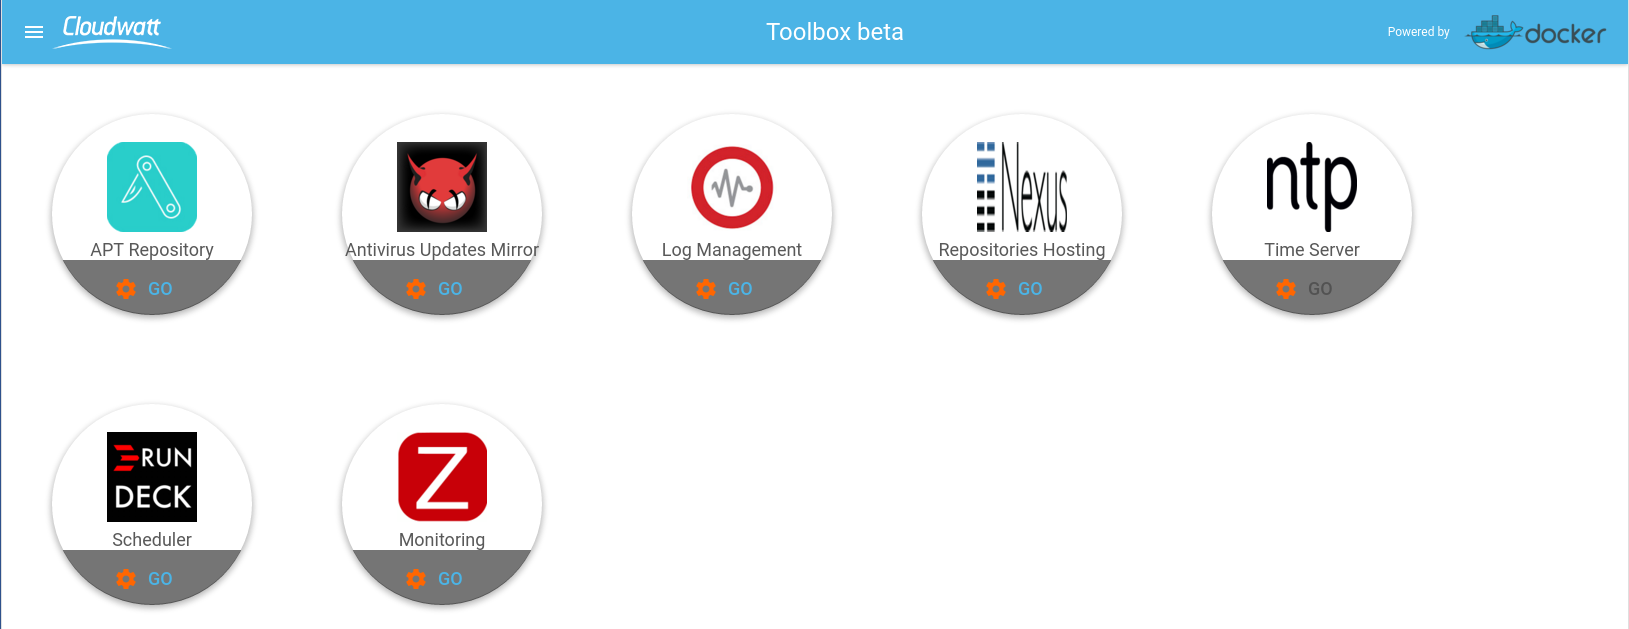
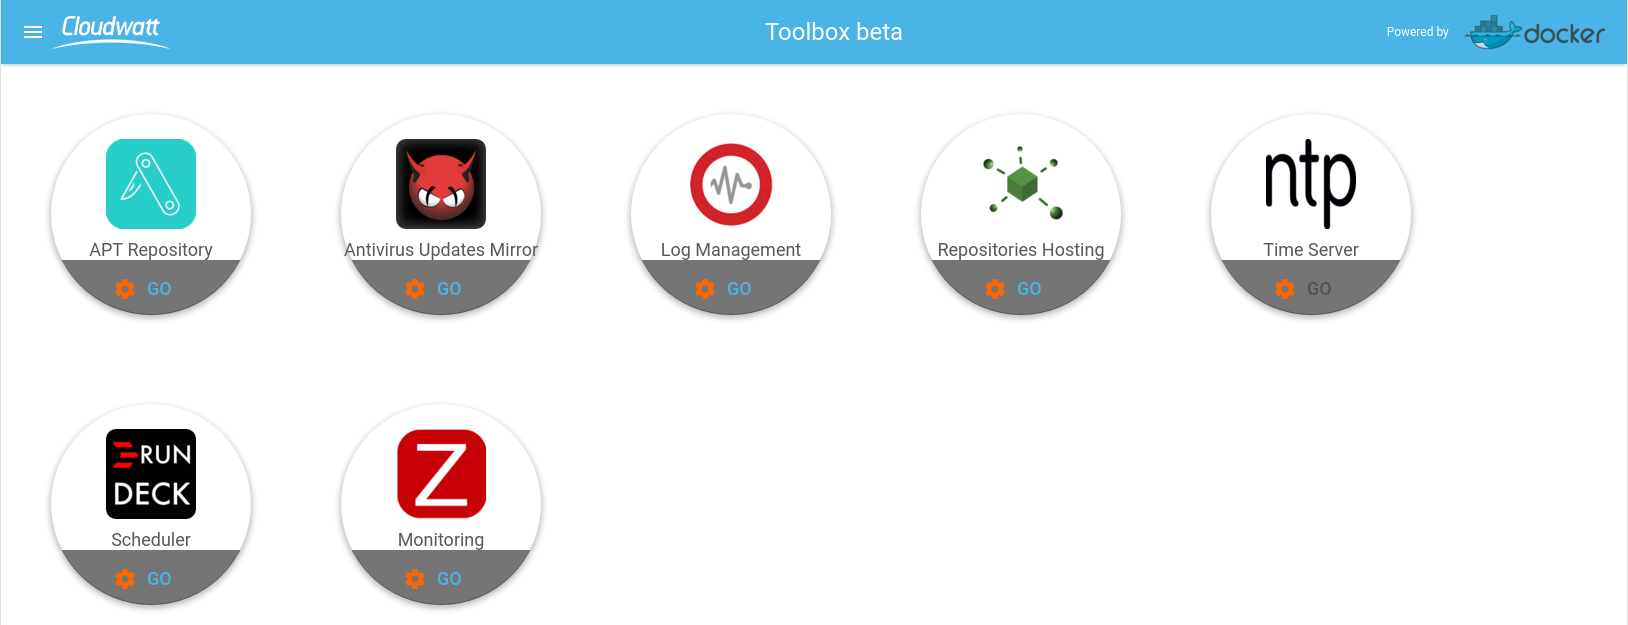
new interface

diff --git a/bundle-toolbox/README.md b/bundle-toolbox/README.md
@@ -296,7 +296,7 @@ Pour aller plus loin voici quelques liens utiles:
   - Zabbix 3.0
   - Rundeck 2.6.2
   - Graylog 1.3.4
-  - Nexus 2.12.1-01
+  - Nexus 3.0
   - Nginx 1.9.12
   - Aptly  0.9.6
   - SkyDNS 2.5.3a
